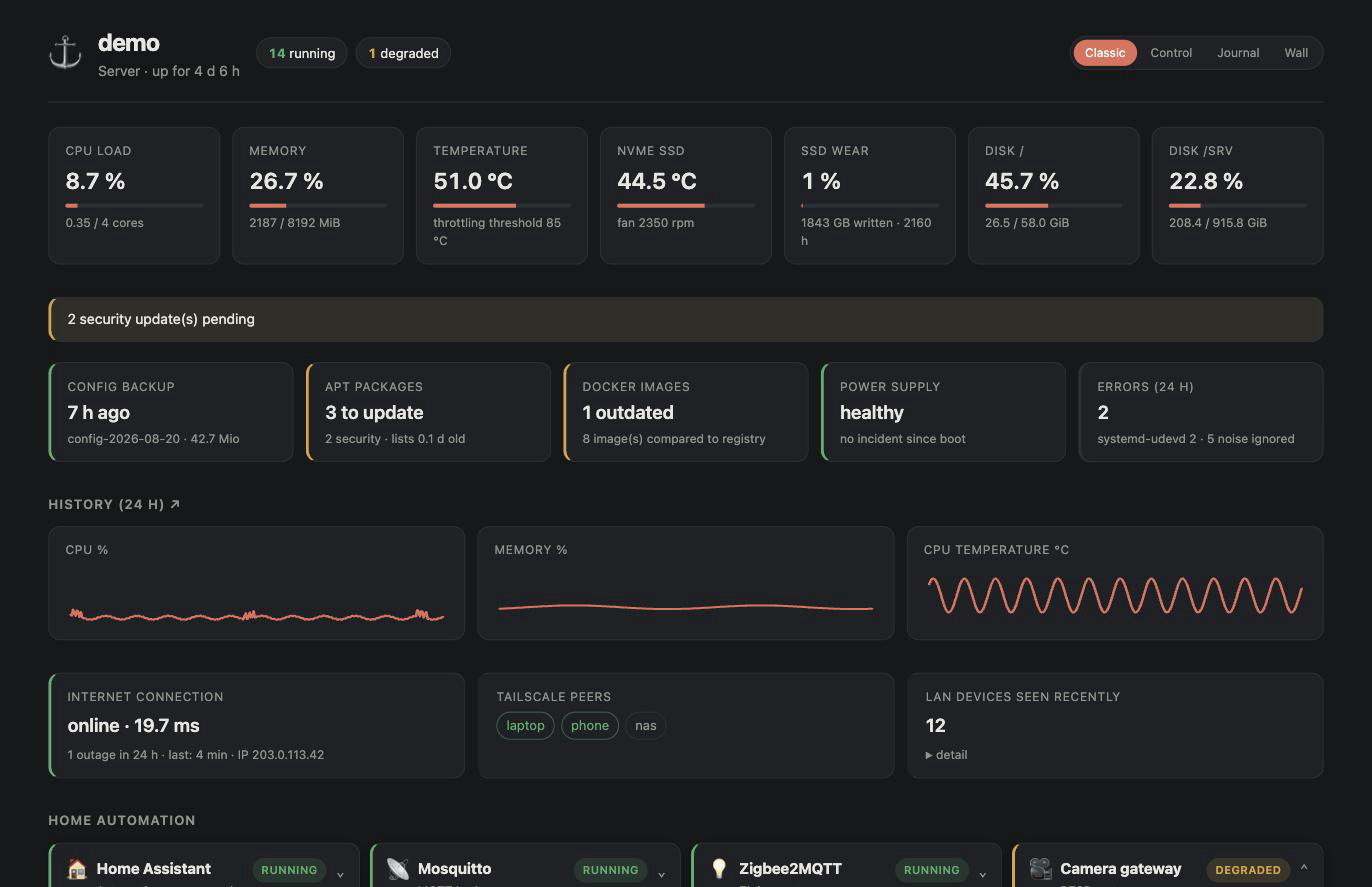
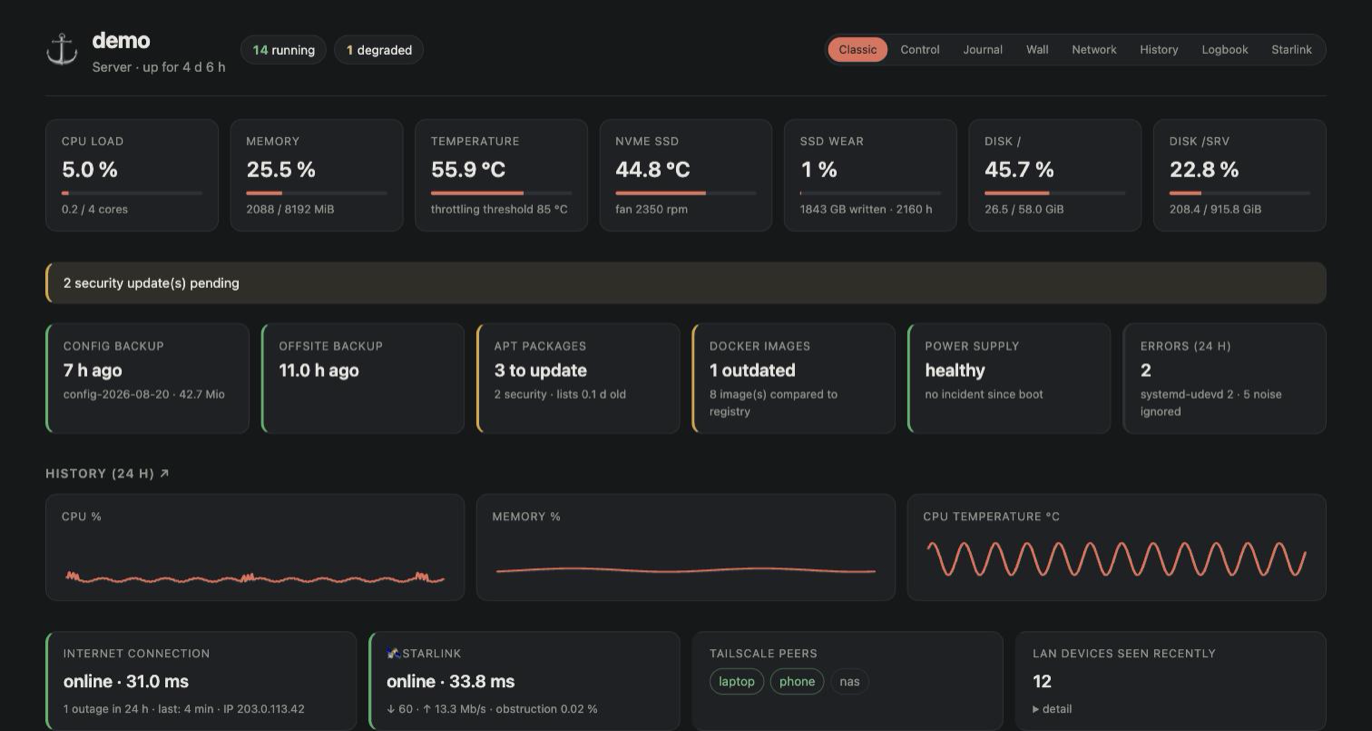
docs: landing update for v0.4.0 (logbook, languages, themes)

diff --git a/docs/index.html b/docs/index.html
@@ -108,10 +108,14 @@ cd homeport &amp;&amp; sudo ./deploy/install.sh</code>
         <p>Each service combines Docker state, systemd state and a live probe. When they disagree — a container that runs but no longer answers — it shows as <span class="em">degraded</span>, exactly what <code>docker ps</code> hides.</p></div>
       <div class="feat"><h3>The machine</h3>
         <p>CPU, memory, temperatures, SSD wear, power incidents, journal errors, pending updates, backup freshness — with 7 days of history and Internet outages overlaid.</p></div>
+      <div class="feat"><h3>A one-year logbook</h3>
+        <p>The events that matter, on a day-grouped timeline: services falling and recovering, Internet outages, new devices, admin actions, boots and power incidents — with container logs one click away.</p></div>
       <div class="feat"><h3>The network around it</h3>
         <p>LAN inventory with real names (yours → mDNS → vendor), new-device detection, Tailscale peers, latency and outage tracking, Wake-on-LAN.</p></div>
       <div class="feat"><h3>Nothing to babysit</h3>
-        <p>One Python service, one SQLite file, one YAML config re-read on every request. No agents, no external database, no JavaScript framework. English and French.</p></div>
+        <p>One Python service, one SQLite file, one YAML config re-read on every request. No agents, no external database, no JavaScript framework.</p></div>
+      <div class="feat"><h3>Yours, in your language</h3>
+        <p>English, French and Chinese — each browser picks its own language from the footer, and its own theme: light, dark, or follow the system.</p></div>
     </div>
 
     <h2 class="section">Designed for a home, secured like one</h2>
